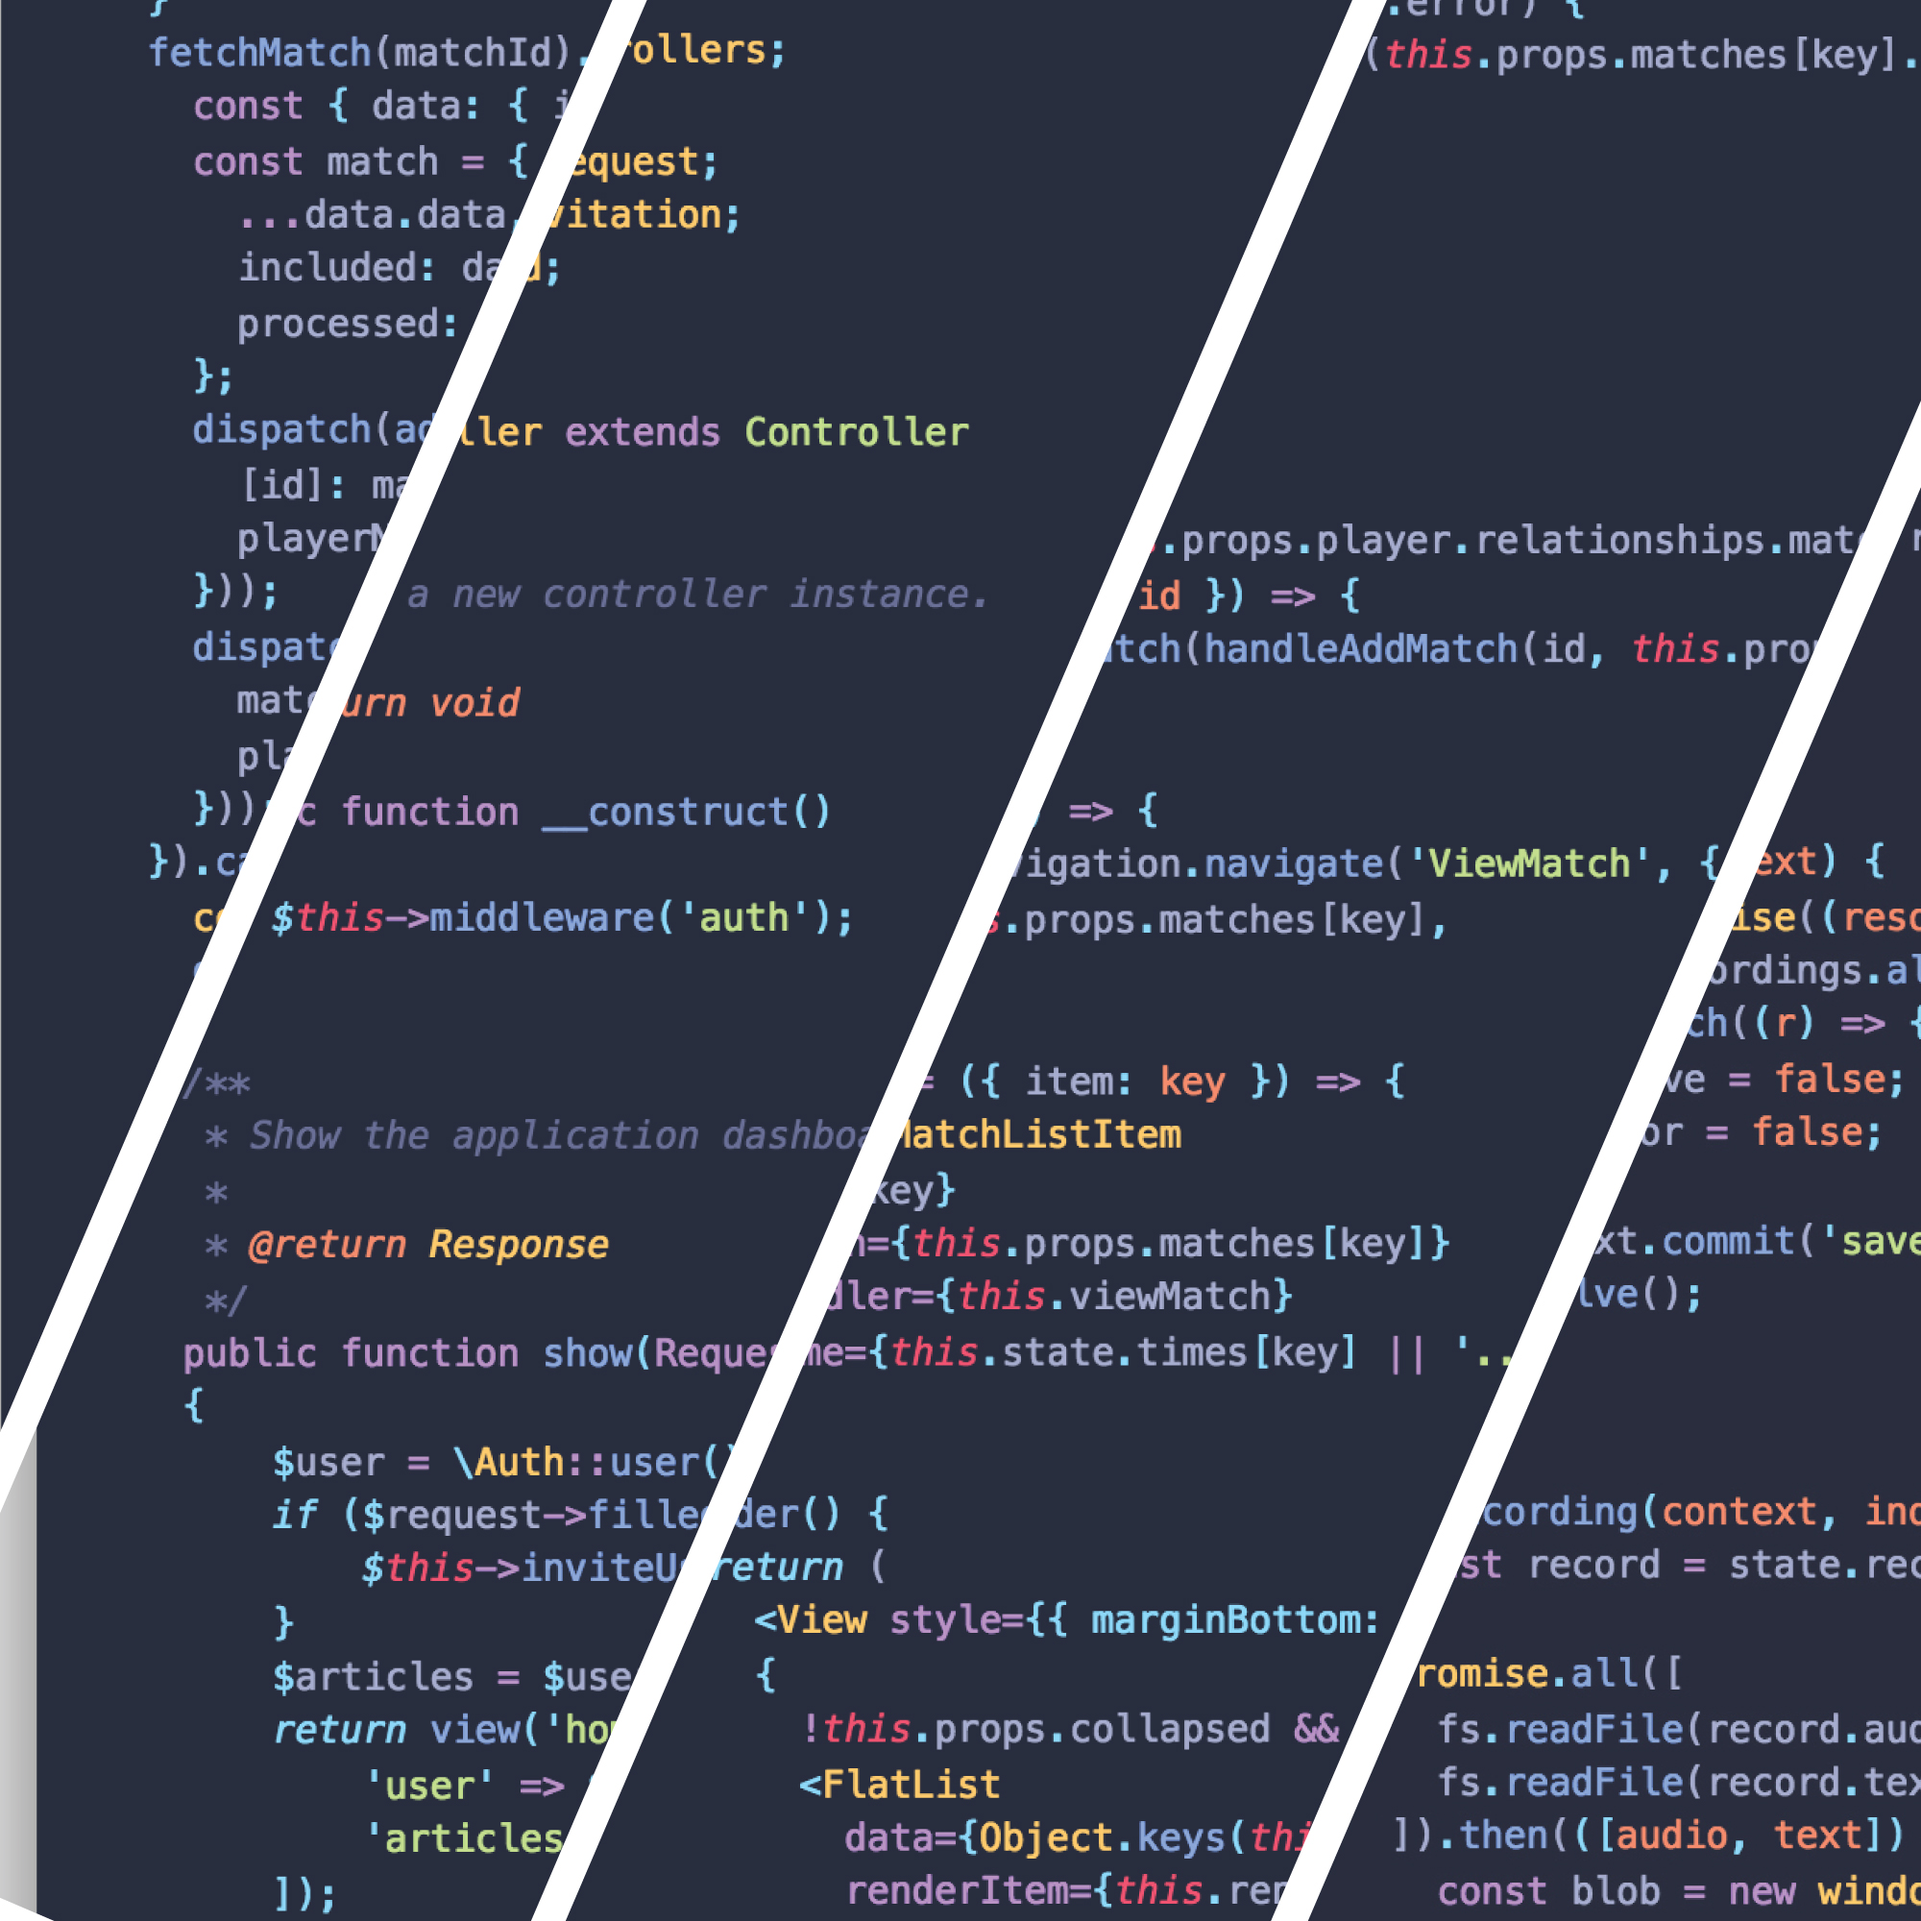
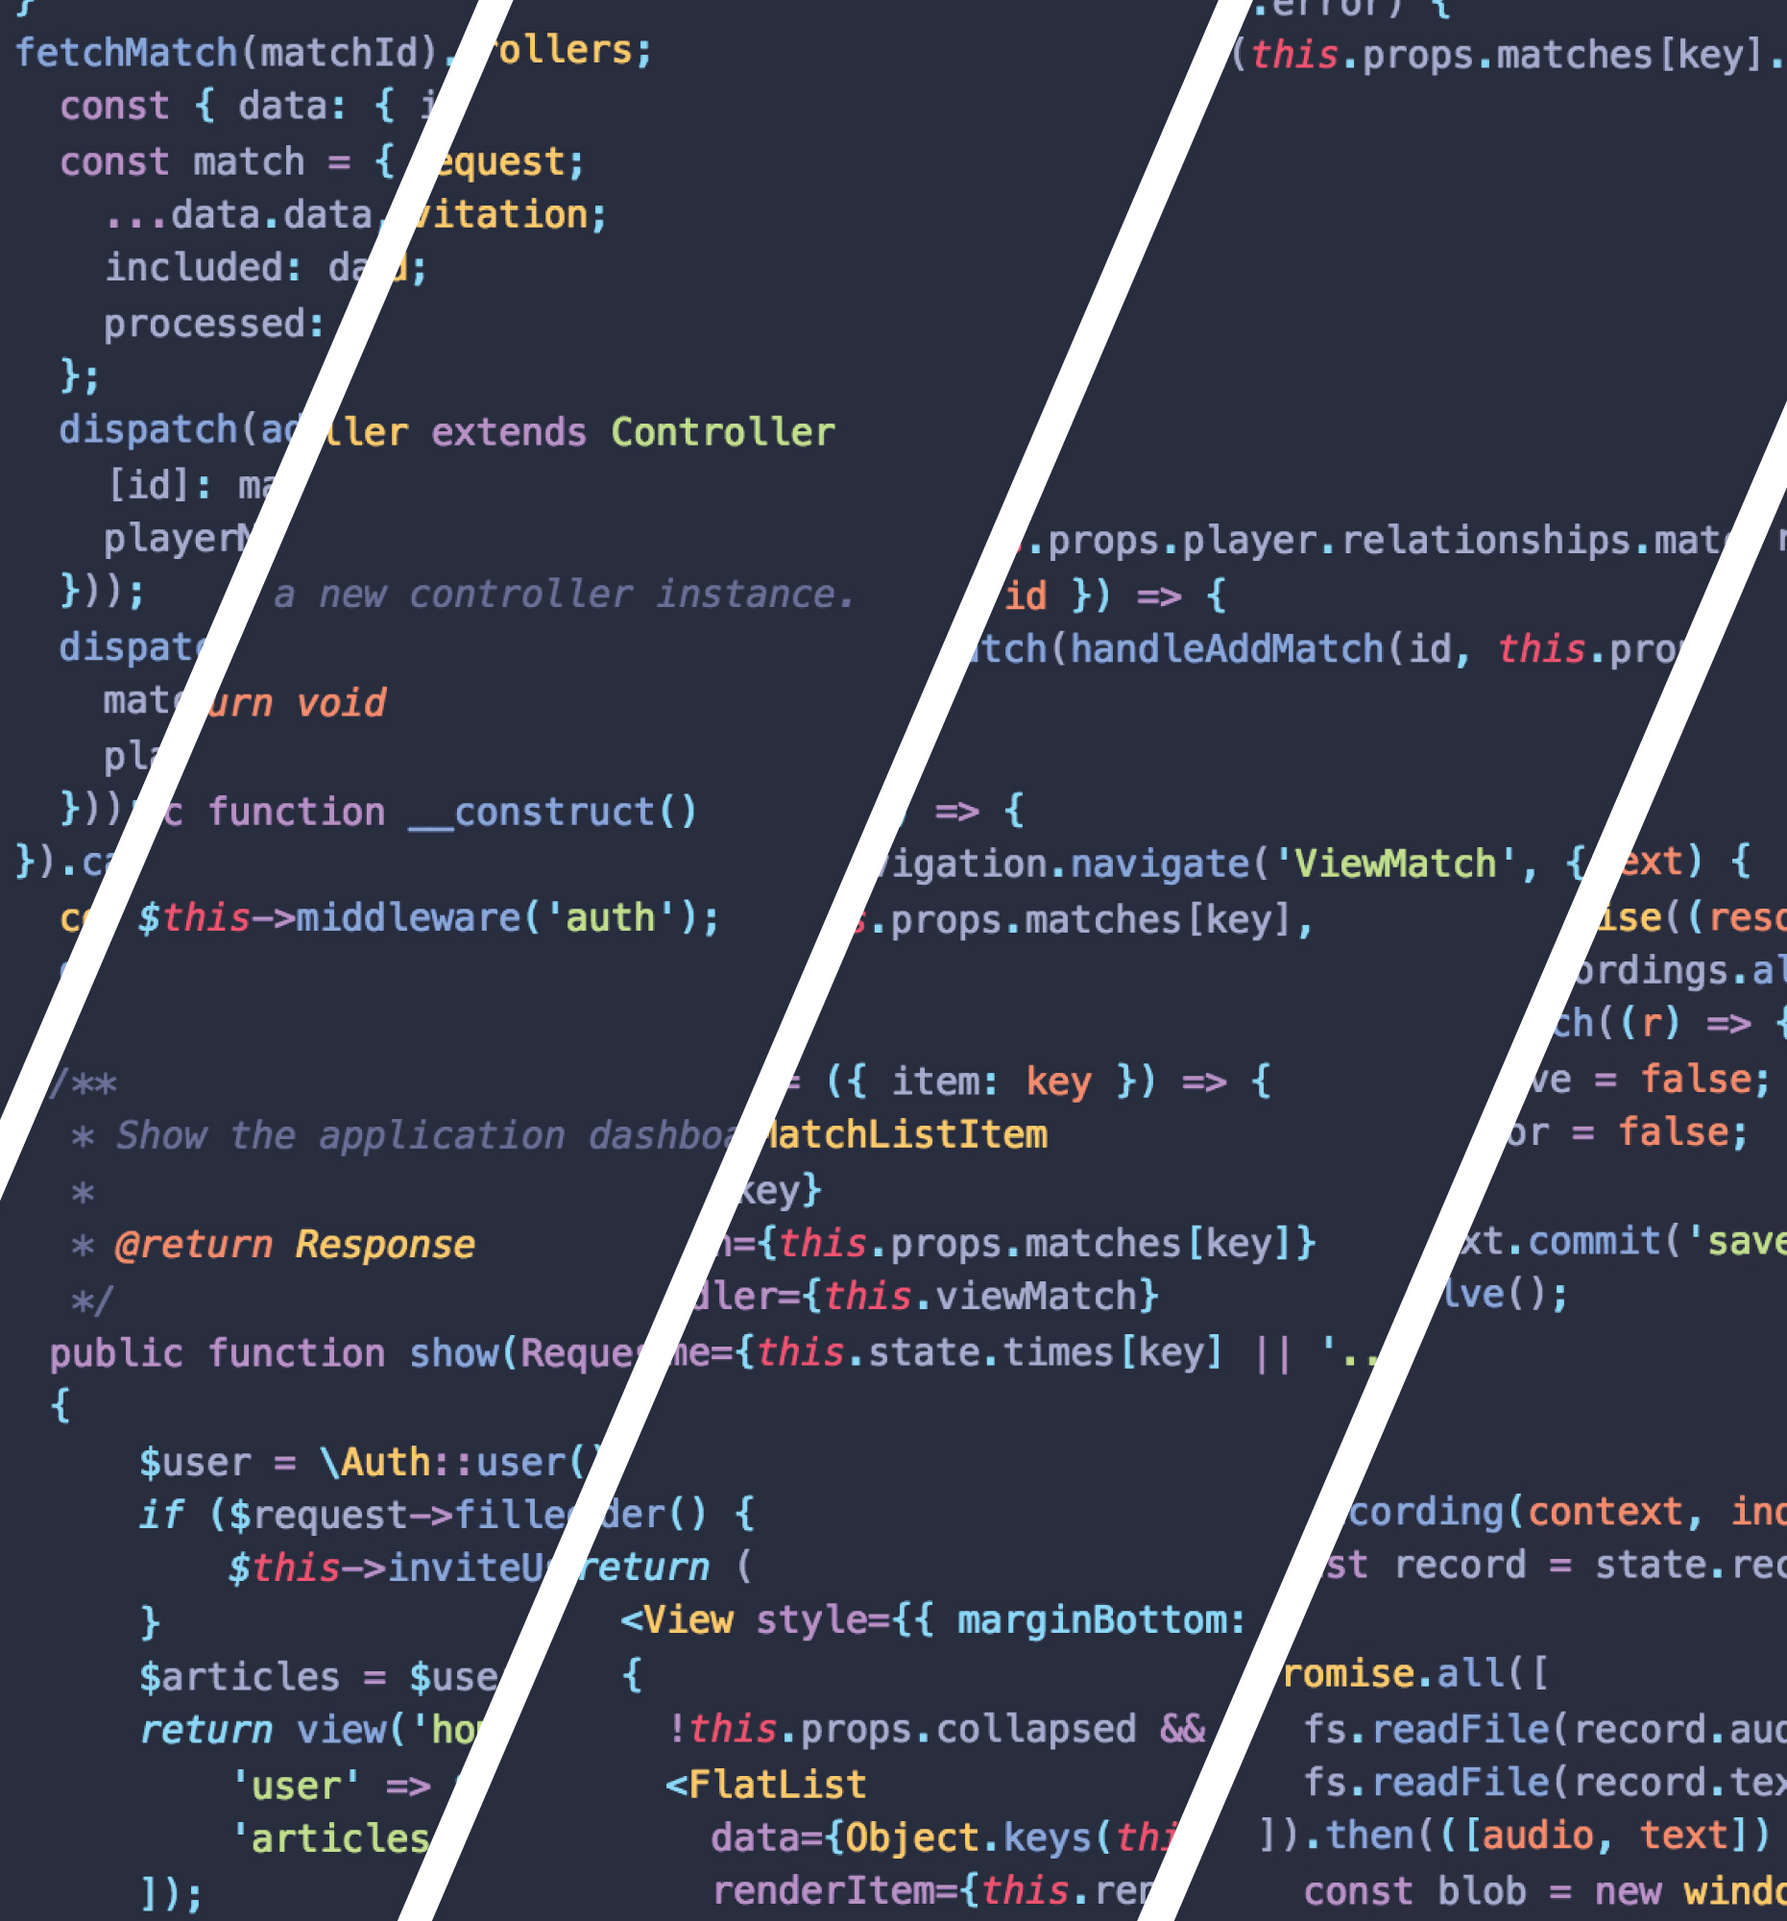
style changes

Changed region(s): [[0.0, 0.0, 0.9973, 1.0], [0.3428, 0.279, 0.4675, 0.341], [0.0935, 0.992, 0.1247, 1.0]]

diff --git a/src/App.css b/src/App.css
@@ -1,6 +1,6 @@
 html,
 body {
-  font-family: 'Quicksand';
+  font-family: 'Cutive Mono';
   font-size: 18px;
   color: #292e3e;
 }
@@ -45,6 +45,13 @@ img {
   -webkit-text-fill-color: transparent;
   text-transform: uppercase;
   font-weight: 900;
+}
+
+@media(max-width: 1100px) {
+  .home__header {
+    background-attachment: fixed;
+    background-size: contain;
+  }
 }
 
 .home__header span {

diff --git a/public/index.html b/public/index.html
@@ -20,7 +20,7 @@
       Learn how to configure a non-root public URL by running `npm run build`.
     -->
     <title>Krez Freas</title>
-    <link href="https://fonts.googleapis.com/css?family=Oswald:400,500,600,700|Quicksand" rel="stylesheet">
+    <link href="https://fonts.googleapis.com/css?family=Oswald:400,500,600,700|Cutive+Mono" rel="stylesheet">
   </head>
   <body>
     <noscript>
